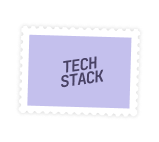
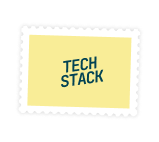
- Changed the design of techstack page - Changed interface types to type aliasing

diff --git a/app/(routes)/techstack/page.tsx b/app/(routes)/techstack/page.tsx
@@ -1,6 +1,7 @@
 "use client";
 
 import DesktopNav from "@/app/_components/common/DesktopNav";
+import { JojoButterflyStamp } from "@/app/_components/common/JojoButterflyStamp";
 import Wrapper from "@/app/_components/layout/Wrapper";
 import { TECH_STACK } from "@/app/_constants/stack";
 import useBorder from "@/app/_hooks/useBorder";
@@ -10,59 +11,73 @@ import {
   TooltipProvider,
   TooltipTrigger,
 } from "@/components/ui/tooltip";
+import * as motion from "framer-motion/client";
 
 export default function TechStack() {
   return (
-    <Wrapper borderColor="gray">
-      <main className="h-full w-full flex flex-col justify-between p-6">
-        <div className="flex h-full">
-          <header className="h-full flex flex-col justify-around items-start">
-            <div className=" -mt-4 -ml-2">
-              <DesktopNav />
-            </div>
-            <section className="danfo-comb leading-[4.5rem]">
-              <h1 className="text-[96px] text-[#62708D] ">
-                TECH
-                <br />
-                STACK
-              </h1>
+    <div className="min-h-screen w-full flex justify-center items-center overflow-hidden">
+      <Wrapper borderColor="teal">
+        <main className="h-full w-full flex flex-col justify-between p-6">
+          <div className="flex h-full">
+            <header className="h-full flex flex-col justify-between items-start">
+              <div className=" -mt-6 -ml-2">
+                <DesktopNav />
+              </div>
+              <section className="danfo-comb leading-[4.5rem]">
+                <h1 className="text-[96px] text-[#338DA1] ">
+                  TECH
+                  <br />
+                  STACK
+                </h1>
+                <JojoButterflyStamp
+                  fileName="stamp3"
+                  classNames="z-10 w-[50px] md:w-[79px] absolute hover:scale-110 transition-all ml-[203px] mt-[-118px] "
+                />
+              </section>
+            </header>
+            <section className="md:h-full md:w-full grid md:grid-rows-3 md:grid-cols-5 sm:grid-cols-2 grid-cols-2 gap-3 md:gap-2 lg:gap-3 pl-6 pb-6 z-[9]">
+              {TECH_STACK.map(({ title, link, Icon }, index) => (
+                <TooltipProvider key={index} delayDuration={0}>
+                  <Tooltip>
+                    <div
+                      key={index}
+                      className="flex flex-col justify-center items-center bg-[#E7D6E2]/30 group"
+                      style={useBorder({
+                        borderWidth: "1.2px",
+                        borderColor: "#D982C2",
+                        borderDash: "15px",
+                        borderSpacing: "25px",
+                      })}
+                    >
+                      <TooltipTrigger>
+                        <Icon
+                          size={38}
+                          className={`text-[#b85495] group-hover:text-[#dc299d] group-hover:scale-110 transition-all`}
+                        />
+                      </TooltipTrigger>
+                    </div>
+                    <TooltipContent className="bg-[#21005D] text-sm px-4 py-2 rounded">
+                      <p className="text-white">{title}</p>
+                    </TooltipContent>
+                  </Tooltip>
+                </TooltipProvider>
+              ))}
             </section>
-          </header>
-          <section className="md:h-full md:w-full grid md:grid-rows-3 md:grid-cols-5 sm:grid-cols-2 grid-cols-2 gap-3 md:gap-2 lg:gap-3 pl-6 pb-6">
-            {TECH_STACK.map(({ title, link, Icon }, index) => (
-              <TooltipProvider key={index}>
-                <Tooltip>
-                  <div
-                    key={index}
-                    className="flex flex-col justify-center items-center bg-[#9B97CF]/20 group"
-                    style={useBorder({
-                      borderWidth: "1.2px",
-                      borderColor: "#856EAF",
-                      borderDash: "15px",
-                      borderSpacing: "25px",
-                    })}
-                  >
-                    <TooltipTrigger>
-                      <Icon
-                        size={38}
-                        className={`text-[#62708D] group-hover:text-[#313b51] transition-colors`}
-                      />
-                    </TooltipTrigger>
-                  </div>
-                  <TooltipContent className="bg-[#141b28] text-sm px-4 py-2 rounded">
-                    <p className="text-white">{title}</p>
-                  </TooltipContent>
-                </Tooltip>
-              </TooltipProvider>
-            ))}
-          </section>
-        </div>
-        <div className="">
-          <h2 className="danfo-comb leading-[4rem] text-[86px] text-[#6C6790] ">
-            & OTHER SKILLS
-          </h2>
-        </div>
-      </main>
-    </Wrapper>
+          </div>
+          <div className="">
+            <h2 className="danfo-comb leading-[4rem] text-[86px] text-[#4B9297] ">
+              & OTHER SKILLS
+            </h2>
+            <motion.img
+              src="/assets/images/josuke-banner.png"
+              alt="Josuke Banner"
+              className="hidden absolute md:block lg:bottom-[-82px] md:bottom-[-35px] right-[-230px] lg:w-[462px] md:w-[360px] z-[1] "
+              whileHover={{ scale: [null, 1.06, 1.06] }}
+              transition={{ duration: 0.3, ease: [0.6, 0.01, -0.05, 0.95] }}
+            />
+          </div>
+        </main>
+      </Wrapper>
+    </div>
   );
 }

diff --git a/app/(routes)/page.tsx b/app/(routes)/page.tsx
@@ -2,6 +2,7 @@ import * as motion from "framer-motion/client";
 import DesktopNav from "../_components/common/DesktopNav";
 import EmptyFillerDiv from "../_components/common/EmptyFillerDiv";
 import Footer from "../_components/common/Footer";
+import { JojoButterflyStamp } from "../_components/common/JojoButterflyStamp";
 import { MobileNavTrigger } from "../_components/common/MobileNavTrigger";
 import Wrapper from "../_components/layout/Wrapper";
 
@@ -30,15 +31,13 @@ export default function Home() {
 function LandingTitle() {
   return (
     <div className="relative flex flex-col justify-center items-center md:items-end md:justify-end pt-4 md:pt-0 md:mt-4 md:pl-2">
-      <img
-        src="/assets/images/stamp1.png"
-        alt="Jojo Stamp"
-        className="z-10 w-[50px] md:w-[79px] absolute md:mr-[-25px] top-[55px] md:top-[30px] rotate-12 hover:scale-110 transition-all ml-52 md:ml-0"
+      <JojoButterflyStamp
+        fileName="stamp1"
+        classNames="z-10 w-[50px] md:w-[79px] absolute md:mr-[-25px] top-[55px] md:top-[30px] rotate-12 hover:scale-110 transition-all ml-52 md:ml-0"
       />
-      <img
-        src="/assets/images/stamp2.png"
-        alt="Jojo Stamp"
-        className="z-10 w-[50px] md:w-[70px] absolute md:bottom-[-53px] -rotate-12 hover:scale-110 transition-all mr-56 md:mr-48 mt-36 md:mt-0"
+      <JojoButterflyStamp
+        fileName="stamp2"
+        classNames="z-10 w-[50px] md:w-[70px] absolute md:bottom-[-53px] -rotate-12 hover:scale-110 transition-all mr-56 md:mr-48 mt-36 md:mt-0"
       />
       <h2 className="md:absolute text-blue danfo-regular md:top-[6px] md:text-[80px] text-7xl leading-normal overflow-hidden">
         HI,I'M

diff --git a/app/(routes)/projects/page.tsx b/app/(routes)/projects/page.tsx
@@ -1,4 +1,5 @@
 import DesktopNav from "@/app/_components/common/DesktopNav";
+import { JojoButterflyStamp } from "@/app/_components/common/JojoButterflyStamp";
 import { MobileNavTrigger } from "@/app/_components/common/MobileNavTrigger";
 import Wrapper from "@/app/_components/layout/Wrapper";
 import { PROJECTS } from "@/app/_constants/projects";
@@ -24,10 +25,9 @@ function Projects() {
             <h1 className="text-[#94BD33] lg:text-[123px] text-[45px] xs:text-[70px] sm:text-[96px] danfo-comb lg:mt-[-15px] md:mb-[-20px] lg:mb-[-5px]">
               PROJECTS
             </h1>
-            <img
-              src="/assets/images/stamp2.png"
-              alt="Jojo Stamp"
-              className="hidden md:block z-10 w-[50px] md:w-[60px] lg:w-[70px] absolute  md:right-[-30px] md:bottom-[0px] rotate-[15deg] hover:scale-110 transition-all "
+            <JojoButterflyStamp
+              fileName="stamp2"
+              classNames="hidden md:block z-10 w-[50px] md:w-[60px] lg:w-[70px] absolute  md:right-[-30px] md:bottom-[0px] rotate-[15deg] hover:scale-110 transition-all "
             />
           </section>
           <MobileNavTrigger />

diff --git a/app/_constants/stack.ts b/app/_constants/stack.ts
@@ -1,5 +1,5 @@
 import { IconType } from "react-icons";
-import { FaCss3, FaHtml5, FaJs, FaNodeJs, FaReact } from "react-icons/fa";
+import { FaCss3Alt, FaHtml5, FaJs, FaNodeJs, FaReact } from "react-icons/fa";
 import {
   SiAdobephotoshop,
   SiAdobexd,
@@ -10,12 +10,12 @@ import {
   SiUnity,
 } from "react-icons/si";
 
-interface TechStackItem {
+type TechStackItem = {
   title: string;
   link: string;
   Icon: IconType;
   color: string;
-}
+};
 
 export const TECH_STACK: TechStackItem[] = [
   {
@@ -27,7 +27,7 @@ export const TECH_STACK: TechStackItem[] = [
   {
     title: "CSS",
     link: "https://developer.mozilla.org/en-US/docs/Web/CSS",
-    Icon: FaCss3,
+    Icon: FaCss3Alt,
     color: "text-[#006CB4]", // CSS color
   },
   {

diff --git a/app/_components/layout/Wrapper.tsx b/app/_components/layout/Wrapper.tsx
@@ -3,7 +3,13 @@ import React from "react";
 
 type Props = {
   children: React.ReactNode;
-  borderColor: "lightpurple" | "lightgreen" | "gray" | "gold" | "olive";
+  borderColor:
+    | "lightpurple"
+    | "lightgreen"
+    | "gray"
+    | "gold"
+    | "olive"
+    | "teal";
 };
 
 function Wrapper({ children, borderColor }: Props) {
@@ -14,6 +20,7 @@ function Wrapper({ children, borderColor }: Props) {
     gray: "#C1CDCF",
     gold: "#F5C95E",
     olive: "#CAD40F",
+    teal: "#92C9BD",
   };
 
   const borderStyleVar = useBorder({

diff --git a/app/_components/common/DesktopNav.tsx b/app/_components/common/DesktopNav.tsx
@@ -74,7 +74,7 @@ function DesktopHomeNavButton() {
         e.preventDefault();
         navigateTo("/");
       }}
-      className="cursor-pointer absolute rotate-[6deg] group-hover:rotate-12 hover:scale-110 transition-all"
+      className="cursor-pointer absolute rotate-[6deg] mt-[-2.5px] group-hover:rotate-12 hover:scale-110 transition-all"
     >
       <img src="/assets/images/home-stamp.png" alt="HoverButton" />
     </a>

diff --git a/app/_components/common/JojoButterflyStamp.tsx b/app/_components/common/JojoButterflyStamp.tsx
@@ -1,0 +1,17 @@
+type JojoButterflyStampProps = {
+  fileName: string;
+  classNames: string;
+};
+
+export function JojoButterflyStamp({
+  fileName,
+  classNames,
+}: JojoButterflyStampProps) {
+  return (
+    <img
+      src={`/assets/images/${fileName}.png`}
+      alt="Jojo Butterfly Stamp"
+      className={classNames}
+    />
+  );
+}

diff --git a/app/_constants/projects.ts b/app/_constants/projects.ts
@@ -1,11 +1,12 @@
-interface ProjectItem {
+type ProjectItem = {
   id: number;
   name: string;
+  subtext?: string;
   title: string;
   techstack: string[];
   website: boolean;
   github: boolean;
-}
+};
 
 export const PROJECTS: ProjectItem[] = [
   {

diff --git a/app/_constants/social_links.ts b/app/_constants/social_links.ts
@@ -1,8 +1,8 @@
-interface SocialLinksItem {
+type SocialLinksItem = {
   name: string;
   link: string;
   img: string;
-}
+};
 
 export const SOCIAL_LINKS: SocialLinksItem[] = [
   {

diff --git a/global.d.ts b/global.d.ts
@@ -1,7 +1,7 @@
 declare namespace NodeJS {
-  interface ProcessEnv {
+  type ProcessEnv = {
     GITHUB_URL: string;
     LINKEDIN_URL: string;
     BEHANCE_URL: string;
-  }
+  };
 }

diff --git a/app/_constants/links.ts b/app/_constants/links.ts
@@ -1,7 +1,7 @@
-interface NavLinkItem {
+type NavLinkItem = {
   name: string;
   href: string;
-}
+};
 
 export const NAV_LINKS: NavLinkItem[] = [
   { name: "home", href: "/" },
